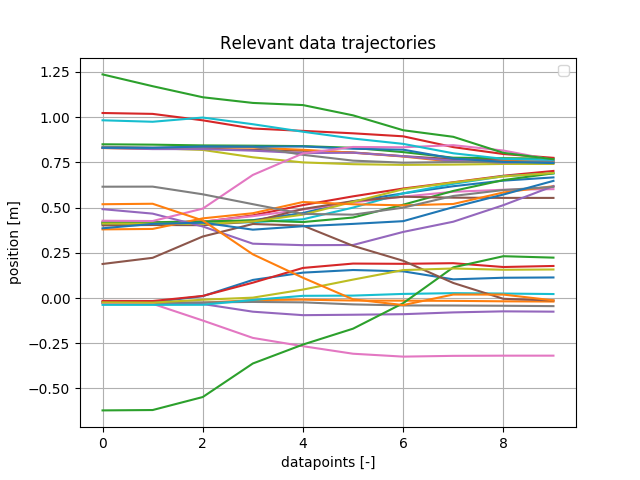
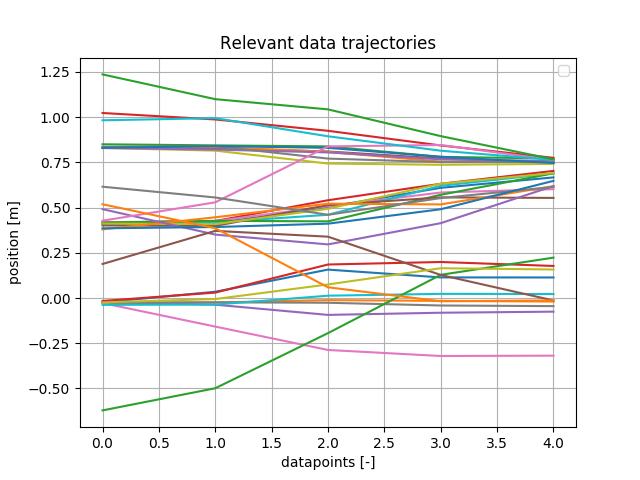
some changes to amount of welford updates

diff --git a/teleop_control/nodes/keyboard_control.py b/teleop_control/nodes/keyboard_control.py
@@ -1,0 +1,78 @@
+#!/usr/bin/env python2.7
+
+import rospy, time, tf
+
+import rospy
+from geometry_msgs.msg import PoseStamped, WrenchStamped
+from pynput.keyboard import Key, Listener
+import threading, pynput
+
+class teleopControl():
+    def __init__(self):
+        rospy.init_node("teleop_control")
+        self.frame_id = 'base_footprint'
+
+        # get ros parameters
+        self._getParameters()
+
+        self.end_effector_goal_sub = rospy.Subscriber("/whole_body_kinematic_controller/arm_tool_link_goal_dummy", PoseStamped, self._end_effector_goal_callback)
+        self._end_effector_pose_sub = rospy.Subscriber("/end_effector_pose", PoseStamped, self._end_effector_pose_callback)
+        
+        self.end_effector_goal_pub = rospy.Publisher("/whole_body_kinematic_controller/arm_tool_link_goal", PoseStamped, queue_size=10)
+
+
+    def _end_effector_pose_callback(self, data):
+        self.current_slave_pose = data.pose
+
+
+    def _end_effector_goal_callback(self, data):
+        ee_pose = PoseStamped()
+
+        # rospy.loginfo('check')
+        if self.part_to_publish == "position":
+            
+            ee_pose.pose.position.x = data.pose.position.x
+            ee_pose.pose.position.y = data.pose.position.y
+            ee_pose.pose.position.z = data.pose.position.z
+            ee_pose.pose.orientation.x = self.current_slave_pose.orientation.x
+            ee_pose.pose.orientation.y = self.current_slave_pose.orientation.y
+            ee_pose.pose.orientation.z = self.current_slave_pose.orientation.z
+            ee_pose.pose.orientation.w = self.current_slave_pose.orientation.w
+
+            ee_pose.header.stamp = rospy.Time.now()
+            self.end_effector_goal_pub.publish(ee_pose)
+            
+        elif self.part_to_publish == "both":
+            
+            ee_pose.pose.position.x = data.pose.position.x
+            ee_pose.pose.position.y = data.pose.position.y
+            ee_pose.pose.position.z = data.pose.position.z
+
+            ee_pose.pose.orientation.x = data.pose.orientation.x
+            ee_pose.pose.orientation.y = data.pose.orientation.y
+            ee_pose.pose.orientation.z = data.pose.orientation.z
+            ee_pose.pose.orientation.w = data.pose.orientation.w
+
+            ee_pose.header.stamp = rospy.Time.now()
+            self.end_effector_goal_pub.publish(ee_pose)
+
+        elif self.part_to_publish == "none":
+            pass
+
+        
+
+    def _getParameters(self):
+        self.part_to_publish = rospy.get_param('~part_to_publish')            
+
+    def run(self):
+        r = rospy.Rate(30)
+        while not rospy.is_shutdown():
+            r.sleep()
+
+if __name__ == "__main__":
+    try:
+        node = teleopControl()
+        node.run()
+    except Exception as e: 
+        rospy.loginfo(e)
+        pass

diff --git a/promp_context_ros/src/promp_context/promp_context.py b/promp_context_ros/src/promp_context/promp_context.py
@@ -147,7 +147,7 @@ class ProMPContext(object):
 
     # welford update where x = [w_M, c_M]
     # thus containing the weights and context of the refined trajectory
-    def welford_update(self, demonstration):
+    def welford_update(self, demonstration, amount=1):
         
         trajectory = demonstration[0]
         context = demonstration[1]
@@ -188,9 +188,6 @@ class ProMPContext(object):
 
             x = np.append(w_M, c_M)
 
-            # print("mean_before = " + str((self.mean_w)))
-            # print("mean_total_before = " + str((self.mean_total)))
-
             # do a welford update step and update the mean and variance
             print("Number of trajectories = " + str(self.nr_traj))
             N = self.nr_traj
@@ -198,7 +195,11 @@ class ProMPContext(object):
 
             welford = Welford(N=N, Mean=self.mean_total, Sigma=self.sigma_total)
 
-            mean_total, sigma_total = welford.update(x)
+            if amount > 1:
+                for i in range(amount):
+                    mean_total, sigma_total = welford.update(x)
+            else: 
+                mean_total, sigma_total = welford.update(x)
 
             self.mean_total = mean_total
             self.sigma_total = sigma_total

diff --git a/learning_from_demonstration/nodes/lfd_node.py b/learning_from_demonstration/nodes/lfd_node.py
@@ -390,7 +390,7 @@ class lfdNode():
         
         self.lfd.load_trajectories_from_folder(self.raw_path)
 
-        desired_datapoints = 10
+        desired_datapoints = 5
         self.lfd.prepare_for_learning(desired_datapoints)
         
         plt.figure()
@@ -558,8 +558,8 @@ class lfdNode():
         rospy.loginfo("Welford update using service...")
         trajectory, context = self.lfd.parser.prompTrajMessage_to_demonstration_format(req.demo)
         
-        for i in range(20):
-            self.lfd.welford_update(trajectory, context)
+        # for i in range(20):
+        self.lfd.welford_update(trajectory, context)
         
         self.add_demo_success.data = True
         response = WelfordUpdateResponse()

diff --git a/learning_from_demonstration/src/learning_from_demonstration_python/learning_from_demonstration.py b/learning_from_demonstration/src/learning_from_demonstration_python/learning_from_demonstration.py
@@ -209,7 +209,7 @@ class learningFromDemonstration():
         self.num_samples = len(self.trajectories_for_learning[0])
         
         # default value
-        num_basis = 10
+        num_basis = 5
 
         # default value
         sigma = 0.1
@@ -289,7 +289,7 @@ class learningFromDemonstration():
         for variable in range(np.asarray(traj).shape[1]):
             single_variable_traj = [ [data[variable]] for data in traj]
             demonstration = (single_variable_traj, context)
-            self.promps[variable].welford_update(demonstration)
+            self.promps[variable].welford_update(demonstration, 1)
 
 
     def add_trajectory_to_promp_model(self, traj, context):

diff --git a/welford/src/welford/welford.py b/welford/src/welford/welford.py
@@ -20,7 +20,7 @@ class Welford():
         # self.N += 1
 
         # forgetting factor
-        # alpha = 0.5
+        alpha = 0.99
 
 
         # auxiliary matrix (ewerton et al.)
@@ -36,6 +36,7 @@ class Welford():
         for i in range(len(x)):
             for j in range(len(x)):
                 # newS[i,j] = (1-alpha)*self.S[i,j] + alpha*(self.N - 1) / self.N * (x[i] - newMean[i]) * (x[j] - self.Mean[j])
+                
                 newS[i,j] = self.S[i,j] + (self.N - 1) / self.N * (x[i] - newMean[i]) * (x[j] - self.Mean[j])
 
                 newSigma[i,j] = newS[i,j] / (self.N - 1)

diff --git a/trajectory_refinement/nodes/trajectory_refinement_promp.py b/trajectory_refinement/nodes/trajectory_refinement_promp.py
@@ -239,6 +239,8 @@ class trajectoryRefinement():
 
             # add normalized master pose to the next pose wrt current pose to calculate refined pose
             pos_next_wrt_pos_current += [x*master_pose_scaling for x in self.PoseStampedToCartesianPositionList(self.normalizeMasterPose(self.master_pose))]
+            # pos_next_wrt_pos_current += [x*master_pose_scaling for x in self.PoseStampedToCartesianPositionList(self.keyboard_pose)]
+
 
             ## transform this pose to base_footprint
             p = list(pos_next_wrt_pos_current)
